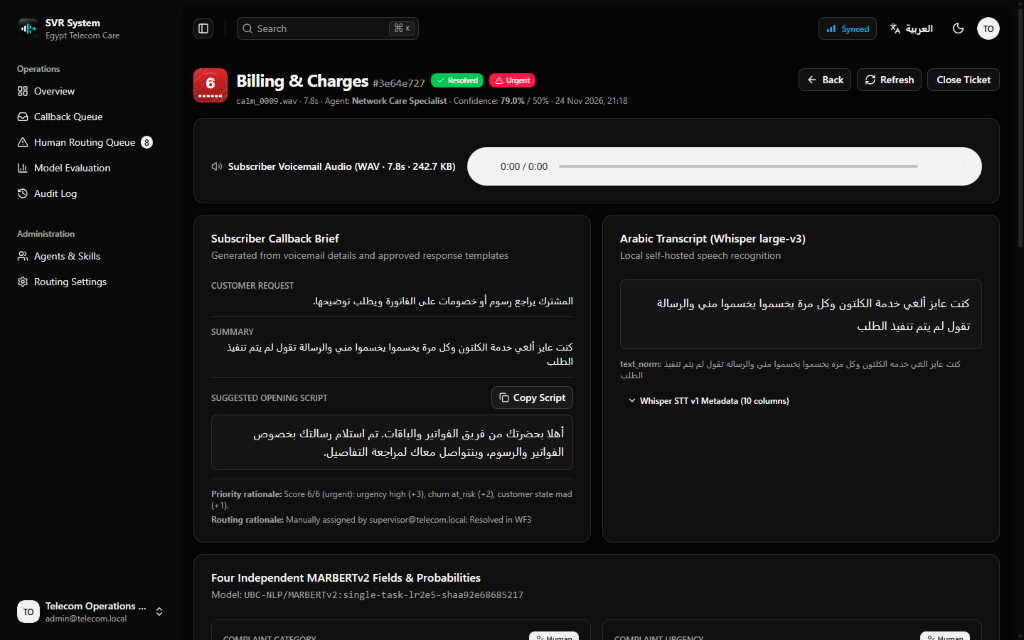
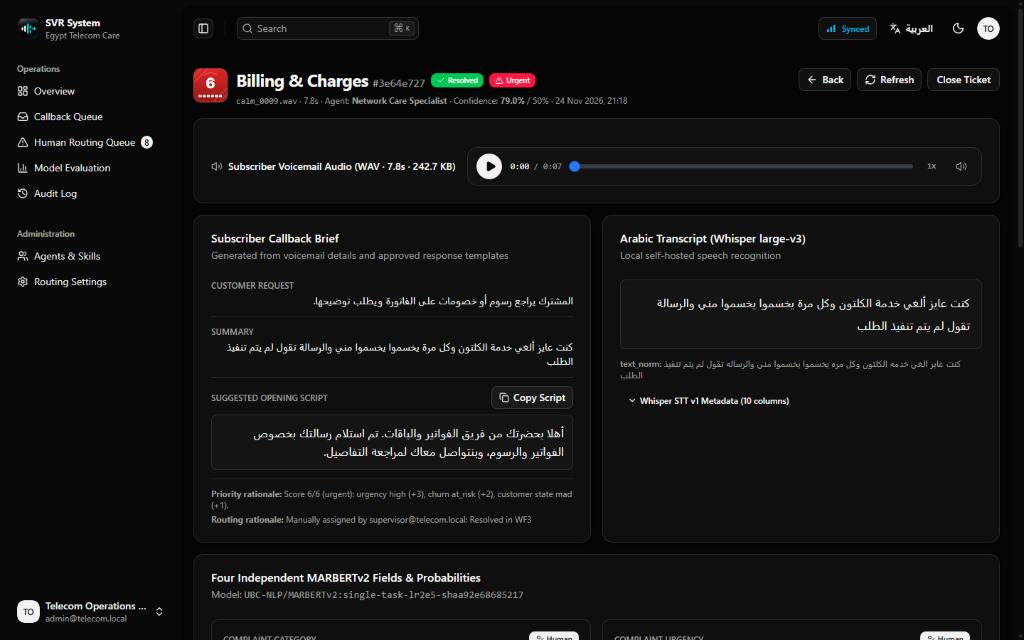
Add theme-aware VoicemailAudioPlayer with high-contrast play controls

Changed region(s): [[0.4375, 0.2188, 0.9688, 0.3125]]

diff --git a/frontend/src/components/svr/voicemail-audio-player.tsx b/frontend/src/components/svr/voicemail-audio-player.tsx
@@ -1,0 +1,160 @@
+import { useEffect, useRef, useState } from 'react'
+import { Pause, Play, Volume2, VolumeX } from 'lucide-react'
+import { Button } from '@/components/ui/button'
+
+function formatClock(sec: number): string {
+  if (!Number.isFinite(sec) || sec < 0) return '0:00'
+  const total = Math.floor(sec)
+  const mins = Math.floor(total / 60)
+  const rem = total % 60
+  return `${mins}:${rem.toString().padStart(2, '0')}`
+}
+
+const SPEEDS = [1, 1.25, 1.5] as const
+
+export function VoicemailAudioPlayer({
+  src,
+  initialDurationSeconds = 0,
+  className = '',
+}: {
+  src: string
+  initialDurationSeconds?: number
+  className?: string
+}) {
+  const audioRef = useRef<HTMLAudioElement | null>(null)
+  const [playing, setPlaying] = useState(false)
+  const [muted, setMuted] = useState(false)
+  const [currentTime, setCurrentTime] = useState(0)
+  const [duration, setDuration] = useState(initialDurationSeconds)
+  const [speedIdx, setSpeedIdx] = useState(0)
+
+  useEffect(() => {
+    setPlaying(false)
+    setCurrentTime(0)
+    setDuration(initialDurationSeconds)
+  }, [src, initialDurationSeconds])
+
+  const effectiveDuration = duration > 0 ? duration : initialDurationSeconds
+  const progressPct = effectiveDuration > 0 ? Math.min(100, (currentTime / effectiveDuration) * 100) : 0
+
+  const togglePlay = async () => {
+    const el = audioRef.current
+    if (!el) return
+    if (el.paused) {
+      try {
+        await el.play()
+        setPlaying(true)
+      } catch {
+        setPlaying(false)
+      }
+    } else {
+      el.pause()
+      setPlaying(false)
+    }
+  }
+
+  const toggleMute = () => {
+    const el = audioRef.current
+    if (!el) return
+    el.muted = !el.muted
+    setMuted(el.muted)
+  }
+
+  const cycleSpeed = () => {
+    const next = (speedIdx + 1) % SPEEDS.length
+    setSpeedIdx(next)
+    if (audioRef.current) {
+      audioRef.current.playbackRate = SPEEDS[next]
+    }
+  }
+
+  const handleSeek = (value: number) => {
+    const el = audioRef.current
+    setCurrentTime(value)
+    if (el && Number.isFinite(value)) {
+      el.currentTime = value
+    }
+  }
+
+  return (
+    <div
+      className={`flex items-center gap-3 rounded-xl border border-border bg-muted/40 px-3 py-2 shadow-xs dark:bg-muted/25 ${className}`}
+    >
+      <audio
+        ref={audioRef}
+        src={src}
+        preload='metadata'
+        onLoadedMetadata={(e) => {
+          const d = e.currentTarget.duration
+          if (Number.isFinite(d) && d > 0) setDuration(d)
+        }}
+        onTimeUpdate={(e) => setCurrentTime(e.currentTarget.currentTime)}
+        onPlay={() => setPlaying(true)}
+        onPause={() => setPlaying(false)}
+        onEnded={() => {
+          setPlaying(false)
+          setCurrentTime(0)
+        }}
+      />
+
+      <Button
+        type='button'
+        size='icon'
+        onClick={() => void togglePlay()}
+        aria-label={playing ? 'Pause voicemail audio' : 'Play voicemail audio'}
+        className='size-9 shrink-0 rounded-full bg-primary text-primary-foreground shadow-sm hover:bg-primary/90'
+      >
+        {playing ? (
+          <Pause className='size-4 fill-current' />
+        ) : (
+          <Play className='size-4 translate-x-0.5 fill-current' />
+        )}
+      </Button>
+
+      <div className='flex min-w-0 flex-1 items-center gap-2.5'>
+        <span className='shrink-0 font-mono text-xs font-medium tabular-nums text-foreground'>
+          {formatClock(currentTime)}
+          <span className='text-muted-foreground'> / {formatClock(effectiveDuration)}</span>
+        </span>
+
+        <div className='relative flex flex-1 items-center'>
+          <input
+            type='range'
+            min={0}
+            max={effectiveDuration > 0 ? effectiveDuration : 1}
+            step={0.1}
+            value={Math.min(currentTime, effectiveDuration || 1)}
+            onChange={(e) => handleSeek(Number(e.target.value))}
+            aria-label='Seek voicemail audio'
+            className='h-1.5 w-full cursor-pointer appearance-none rounded-full accent-[#2979FF]'
+            style={{
+              background: `linear-gradient(to right, #2979FF ${progressPct}%, rgb(148 163 184 / 0.3) ${progressPct}%)`,
+            }}
+          />
+        </div>
+      </div>
+
+      <Button
+        type='button'
+        variant='ghost'
+        size='sm'
+        onClick={cycleSpeed}
+        aria-label={`Playback speed ${SPEEDS[speedIdx]}x`}
+        className='h-7 shrink-0 px-2 font-mono text-[11px] font-semibold text-muted-foreground hover:text-foreground'
+      >
+        {SPEEDS[speedIdx]}x
+      </Button>
+
+      <Button
+        type='button'
+        variant='ghost'
+        size='icon'
+        onClick={toggleMute}
+        aria-label={muted ? 'Unmute audio' : 'Mute audio'}
+        className='size-8 shrink-0 text-muted-foreground hover:text-foreground'
+      >
+        {muted ? <VolumeX className='size-4 text-destructive' /> : <Volume2 className='size-4' />}
+      </Button>
+    </div>
+  )
+}

diff --git a/frontend/src/features/tickets/ticket-detail.tsx b/frontend/src/features/tickets/ticket-detail.tsx
@@ -48,6 +48,7 @@ import {
 import { Textarea } from '@/components/ui/textarea'
 import { Main } from '@/components/layout/main'
 import { BucketText, PriorityScoreAvatar, TicketStatusText } from '@/components/svr/status-badges'
+import { VoicemailAudioPlayer } from '@/components/svr/voicemail-audio-player'
 import { api, apiUrl, ApiError } from '@/lib/api'
 import {
   UI_COPY,
@@ -362,7 +363,11 @@ export function TicketDetailPage({ ticketId }: { ticketId: string }) {
               {formatDuration(ticket.duration_seconds)} · {(ticket.size_bytes / 1024).toFixed(1)} KB)
             </span>
           </div>
-          <audio controls preload='none' src={apiUrl(ticket.audio_url)} className='min-w-[260px] flex-1' />
+          <VoicemailAudioPlayer
+            src={apiUrl(ticket.audio_url)}
+            initialDurationSeconds={ticket.duration_seconds}
+            className='min-w-[280px] flex-1'
+          />
         </CardContent>
       </Card>
 

diff --git a/frontend/src/components/svr/voicemail-intake-sheet.tsx b/frontend/src/components/svr/voicemail-intake-sheet.tsx
@@ -14,6 +14,7 @@ import {
   SheetHeader,
   SheetTitle,
 } from '@/components/ui/sheet'
+import { VoicemailAudioPlayer } from '@/components/svr/voicemail-audio-player'
 import { api, ApiError } from '@/lib/api'
 import type { Locale } from '@/lib/i18n'
 import { formatDuration } from '@/lib/taxonomy'
@@ -243,7 +244,7 @@ export function VoicemailIntakeSheet({
                   {(file.size / 1024).toFixed(1)} KB
                 </span>
               </div>
-              <audio controls src={previewUrl} className='w-full' />
+              <VoicemailAudioPlayer src={previewUrl} className='w-full' />
             </div>
           )}
 

diff --git a/frontend/src/styles/theme.css b/frontend/src/styles/theme.css
@@ -1,4 +1,5 @@
 :root {
+  color-scheme: light;
   --radius: 0.625rem;
   --background: oklch(1 0 0);
   --foreground: oklch(0.129 0.042 264.695);
@@ -50,6 +51,7 @@
 }
 
 .dark {
+  color-scheme: dark;
   --background: oklch(0.115 0 0);
   --foreground: oklch(0.985 0 0);
   --card: oklch(0.168 0 0);
